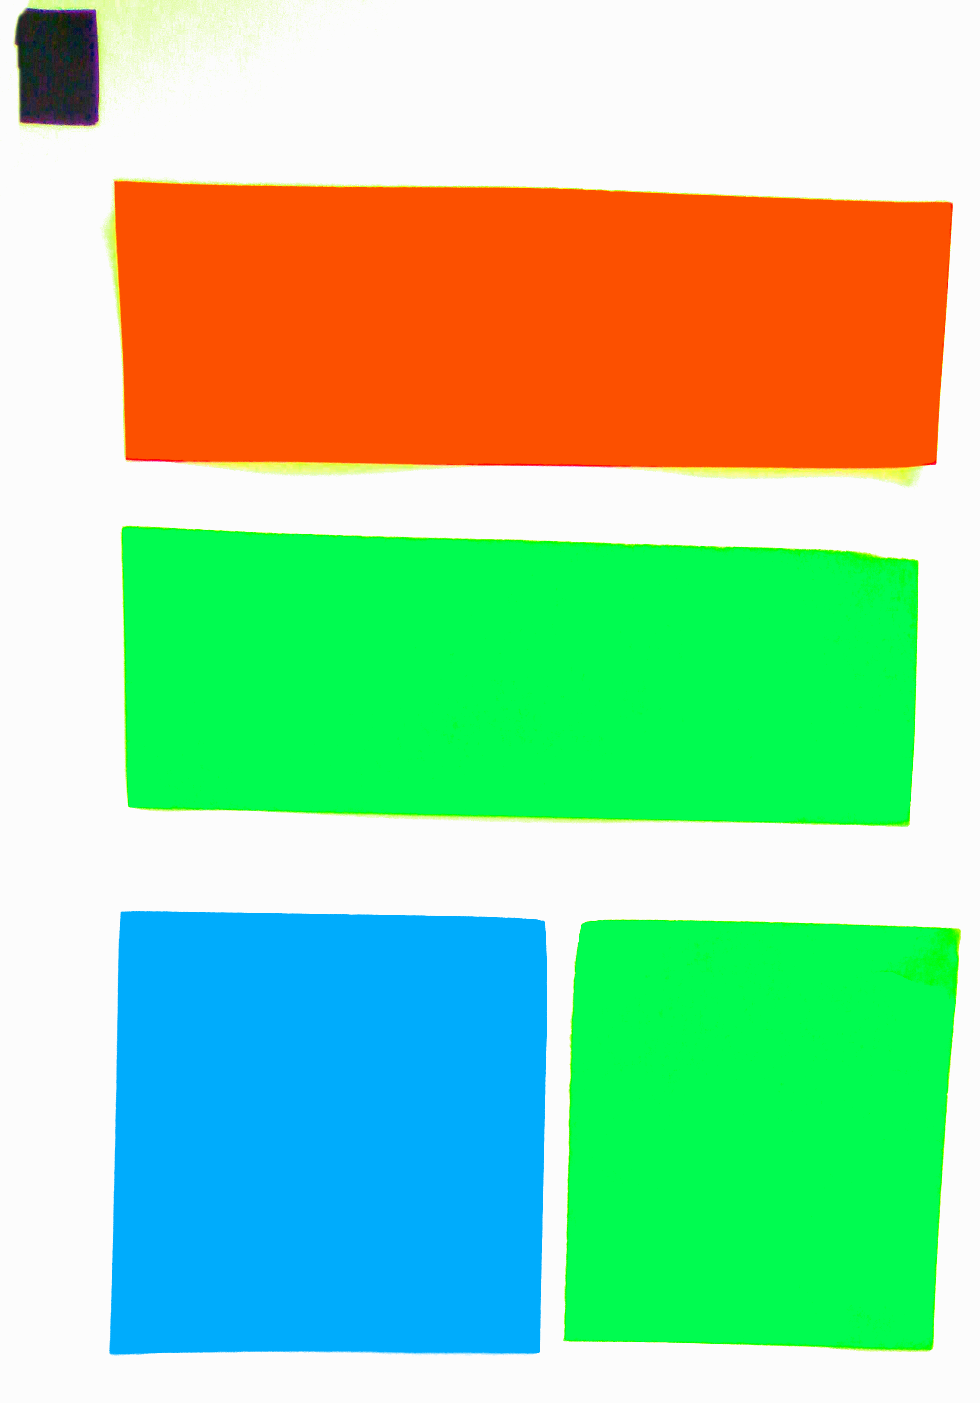
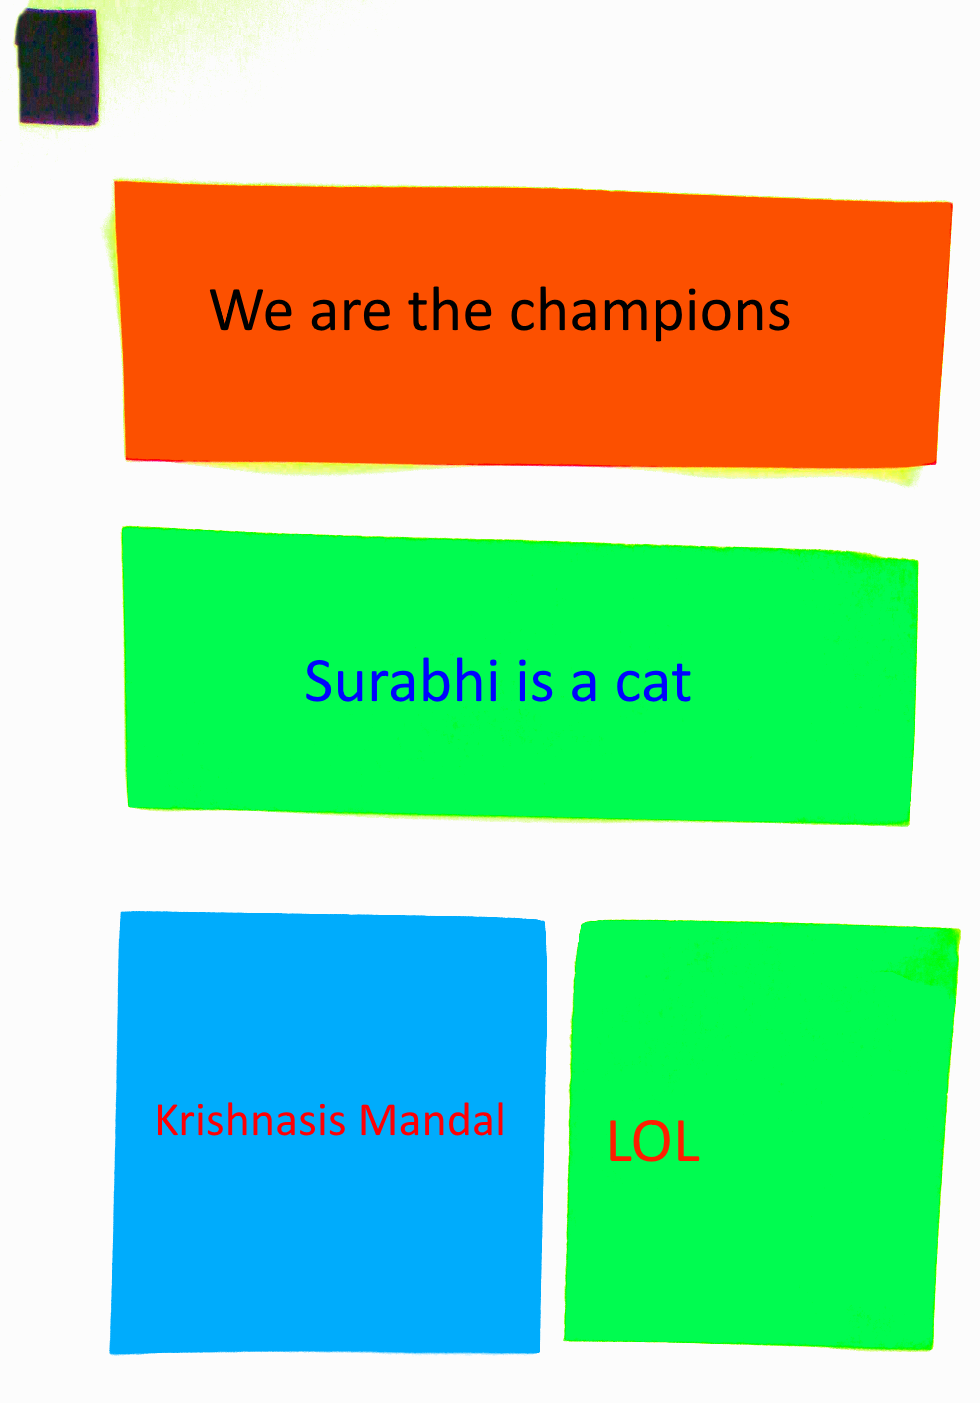
OCR

diff --git a/index.html b/index.html
@@ -4,44 +4,44 @@
     border: 0px solid black;
     padding: 2px;
     text-align: center;
-    background-color:rgb(252, 80, 0)
-   ; height:15%
-    ; width:58%
-    ; margin-bottom:10
-    ; margin-left:10
-    ; display:block
-    ;}"> <p style="font-family:Courier New; color:white; font-size:20px;">This is a demonstration.</p> </div>
-<div style="
-    border: 0px solid black;
-    padding: 2px;
-    text-align: center;
-    background-color:rgb(0, 252, 80)
-   ; height:16%
-    ; width:55%
-    ; margin-bottom:10
-    ; margin-left:10
-    ; display:block
-    ;}"> <p style="font-family:Courier New; color:white; font-size:20px;">This is a demonstration.</p> </div>
-<div style="
-    border: 0px solid black;
-    padding: 2px;
-    text-align: center;
-    background-color:rgb(0, 172, 252)
-   ; height:25%
-    ; width:30%
-    ; margin-bottom:10
-    ; margin-left:10
-    ; display:inline-block
-    ;}"> <p style="font-family:Courier New; color:white; font-size:20px;">This is a demonstration.</p> </div>
-<div style="
-    border: 0px solid black;
-    padding: 2px;
-    text-align: center;
-    background-color:rgb(0, 252, 80)
+    background-color:rgb(9, 9, 142, 255)
    ; height:24%
+    ; width:60%
+    ; margin-bottom:10
+    ; margin-left:10
+    ; display:block
+    ;}"> <p style="font-family:Courier New; color:white; font-size:20px;">This is a demonstration.</p> </div>
+<div style="
+    border: 0px solid black;
+    padding: 2px;
+    text-align: center;
+    background-color:rgb(0, 141, 56, 255)
+   ; height:36%
     ; width:26%
     ; margin-bottom:10
     ; margin-left:10
     ; display:inline-block
-    ;}"> <p style="font-family:Courier New; color:white; font-size:20px;">This is a demonstration.</p> </div>
+    ;}"> <p style="font-family:Courier New; color:white; font-size:20px;">ampions</p> </div>
+<div style="
+    border: 0px solid black;
+    padding: 2px;
+    text-align: center;
+    background-color:rgb(142, 109, 0, 255)
+   ; height:32%
+    ; width:26%
+    ; margin-bottom:10
+    ; margin-left:10
+    ; display:inline-block
+    ;}"> <p style="font-family:Courier New; color:white; font-size:20px;">>ions</p> </div>
+<div style="
+    border: 0px solid black;
+    padding: 2px;
+    text-align: center;
+    background-color:rgb(42, 10, 255, 255)
+   ; height:27%
+    ; width:57%
+    ; margin-bottom:10
+    ; margin-left:10
+    ; display:block
+    ;}"> <p style="font-family:Courier New; color:white; font-size:20px;">Surabhi is a cat</p> </div>
 </center></body></html>

diff --git a/generate.py b/generate.py
@@ -1,9 +1,16 @@
 
-def genWeb(imA, imB, dimA, dimB, color,f):
+def genWeb(xy,imA, imB, dimA, dimB, color,f):
+    import readtext
+    from PIL import Image
     
-    a=int(dimA*60)
-    b=int(dimB*60)
+    im=Image.open("images/test2.png")
+    dpi=im.info['dpi'][0]
+
     
+    a=int(dimA*dpi)
+    b=int(dimB*dpi)
+    text= readtext.ocr(xy,b,a)
+    print(text)
     imA-=200 #account for placement of reference
     
     pa=int((a/imA*100))
@@ -17,6 +24,9 @@ def genWeb(imA, imB, dimA, dimB, color,f):
     #pa=int((a/imA*100)*sysheight/imA)
     #pb=int((b/imB*100)*syswidth/imB)
    
+    if(len(text)==0):
+        text="This is a demonstration."
+    
     
     
     display="block"
@@ -36,7 +46,7 @@ def genWeb(imA, imB, dimA, dimB, color,f):
     ; display:"""+display+"""
     ;}\""""
     
-    genCode="<div "+style+"> <p style=\"font-family:Courier New; color:white; font-size:20px;\">This is a demonstration.</p> </div>\n"
+    genCode="<div "+style+"> <p style=\"font-family:Courier New; color:white; font-size:20px;\">"+text+"</p> </div>\n"
     
     
     f.write(genCode)

diff --git a/object_size.py b/object_size.py
@@ -48,7 +48,8 @@ def generate(imageName,widthOfLeftMost,f):
 
 
         for c in cnts:
-            print("CONTOURS: "+str(c[0][0][0]))
+            xy=c[0][0]  
+            print("CONTOURS: "+str(xy))
 
         reverse=False
         i=1
@@ -132,9 +133,9 @@ def generate(imageName,widthOfLeftMost,f):
                         continue
                 dimA = dA / pixelsPerMetric
                 dimB = dB / pixelsPerMetric
-                
+                xy=c[0][0]  
 
-                gen.genWeb(imheight,imwidth,dimA,dimB,forColor[tltrX+50,tltrY+50],f)
+                gen.genWeb(xy,imheight,imwidth,dimA,dimB,forColor[tltrX+50,tltrY+50],f)
                 
                 # draw the object sizes on the image
                 cv2.putText(orig, "{:.1f}in".format(dimA),

diff --git a/readtext.py b/readtext.py
@@ -1,0 +1,19 @@
+def ocr(xy,h,w):
+    import cv2
+    import pytesseract
+    from PIL import Image
+    
+    
+    img = cv2.imread("images/test2.png")
+    x=int(xy[0])
+    y=int(xy[1])
+    print(str(x)+","+str(y))
+    crop_img = img[y:y+w, x:x+h]
+    
+    #cv2.imshow("cropped", crop_img)
+    cv2.imwrite("images/cropped.png",crop_img)
+    text = pytesseract.image_to_string(Image.open("images/cropped.png"))
+
+    #cv2.waitKey(0)
+    
+    return text
